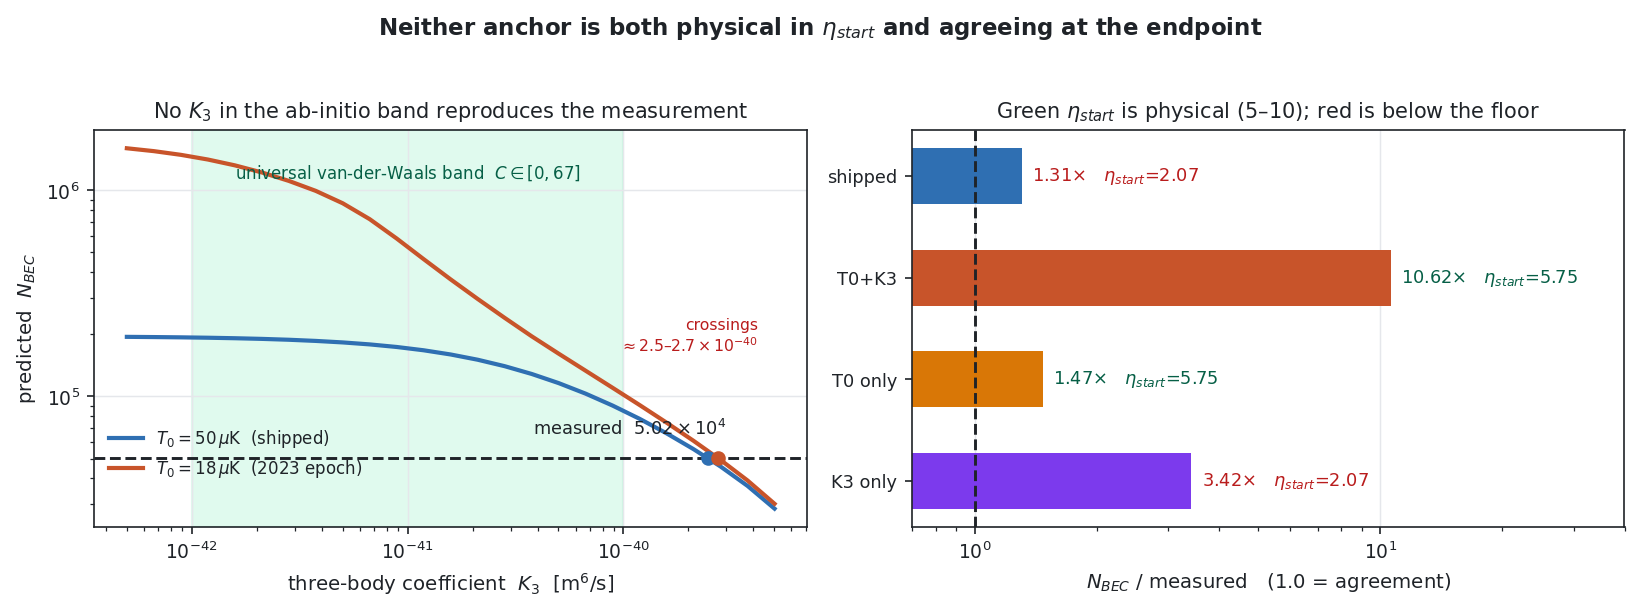
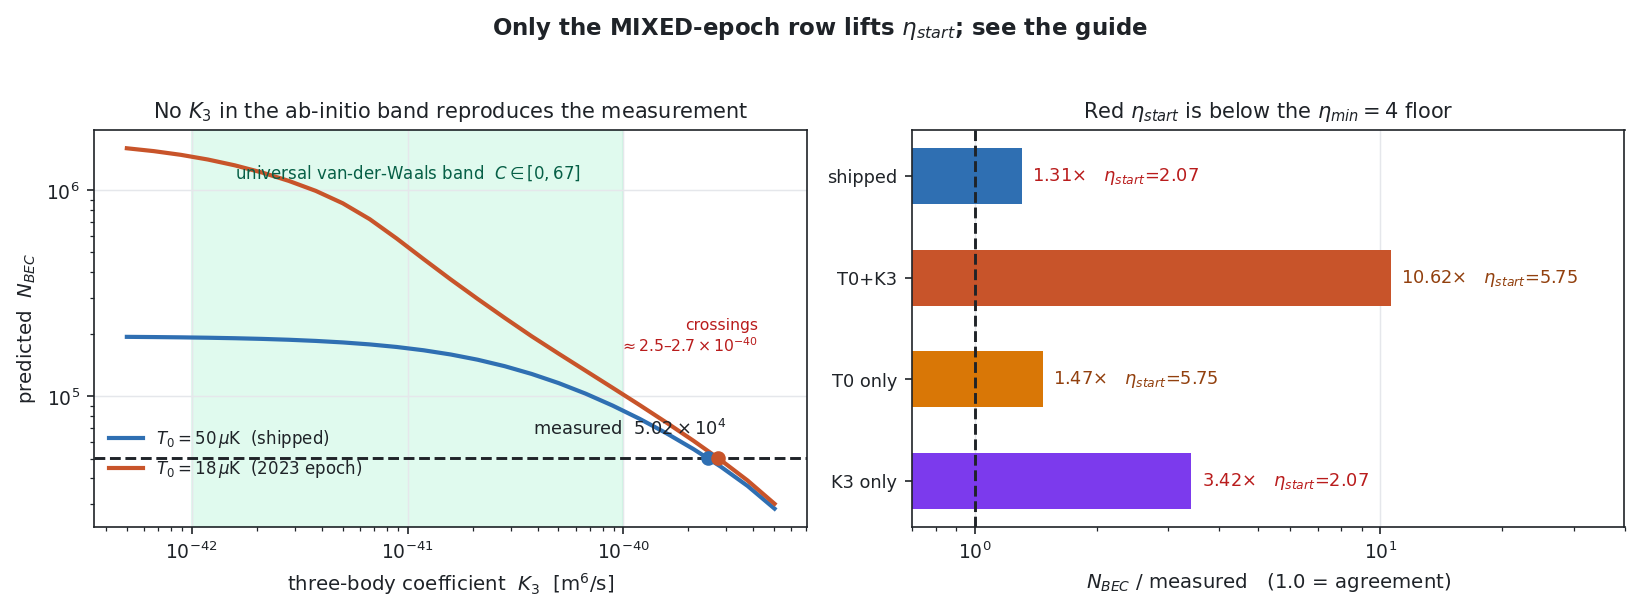
docs(evap): re-anchoring T0 does not lift eta_start — #333 and #348 were wrong
I traced the `T₀ = 18 µK` claim to its source one step too late. The provenance
is real (`eu_evaporation_calibration.md:112`, the 2023-11-06 notebook), but
taking it alone is the same epoch-mixing it was meant to correct, and the
yardstick I judged `η_start` against was not this apparatus's number.

Measured on 5ac0f81f, H-FORT only:

    7 W  -> 187.6 uK   vs 66 uK recorded for the 2023 epoch   (model 2.84x deep)
    10 W -> 271.9 uK   vs 350 uK recorded for 2022            (model 0.78x)

So `euv3_evap_trap()` is the 2022/thesis trap. Pairing it with the 2023 `T₀` is
epoch-mixing — what this calibration document's first rule forbids. Correct both
sides and the effect disappears:

    2022 trap + T0 = 50 uK (as shipped)      eta_start = 2.07
    2023 trap + T0 = 18 uK (depth / 2.84)    eta_start = 2.02
    MIXED: 2022 trap + 2023 T0               eta_start = 5.75

eta_start ~ 2 is what BOTH self-consistent epochs give. The 5.75 that #333
reported as "physical" is the artifact.

Nor is "real setups load at eta ~ 5-10" this apparatus's range: the 2023-07
notebook measured eta_start = 3.7 directly (7 W H-only, 66 uK depth, T = 17.8
uK) and called that regime "very hard". In the same configuration the model
gives 187.6/17.8 = 10.5 — the same 2.84x, which locates the discrepancy in the
trap depth and not the temperature. That is a single-beam hold while euv3 starts
from the crossed trap, so it is not a like-for-like target; it does rule out
[…]

diff --git a/docs/guides/figures/eu_evap_k3_band_exclusion_plot.py b/docs/guides/figures/eu_evap_k3_band_exclusion_plot.py
@@ -72,17 +72,19 @@ a.barh(y, ratios, color=cols, height=0.55)
 a.axvline(1.0, color=INK, lw=1.4, ls="--")
 for i, (rr, et) in enumerate(zip(ratios, etas)):
     a.text(rr * 1.06, i, f"{rr:.2f}×   $\\eta_{{start}}$={et:.2f}", va="center",
-           fontsize=8.5, color="#b91c1c" if et < 4 else "#065f46")
+           # amber, not green: eta_start > 4 here is reached only by pairing the
+           # 2023 T0 with the 2022 trap, which is epoch-mixing (see the guide).
+           fontsize=8.5, color="#b91c1c" if et < 4 else "#92400e")
 a.set_yticks(y)
 a.set_yticklabels(labels, fontsize=8.5)
 a.invert_yaxis()
 a.set_xscale("log")
 a.set_xlim(0.7, 40)
 a.set_xlabel("$N_{BEC}$ / measured   (1.0 = agreement)")
-a.set_title("Green $\\eta_{start}$ is physical (5–10); red is below the floor")
+a.set_title("Red $\\eta_{start}$ is below the $\\eta_{min}=4$ floor")
 a.grid(axis="y", visible=False)
 
-fig.suptitle("Neither anchor is both physical in $\\eta_{start}$ and agreeing at the endpoint",
+fig.suptitle("Only the MIXED-epoch row lifts $\\eta_{start}$; see the guide",
              y=1.03, fontsize=11, fontweight="bold")
 fig.tight_layout()
 fig.savefig(f"{D}/eu_evap_k3_band_exclusion.png", bbox_inches="tight", facecolor="white")

diff --git a/docs/guides/evaporation_model.md b/docs/guides/evaporation_model.md
@@ -121,20 +121,40 @@ On the researched euv3 defaults: `collision_ratio_R ≈ 6.4×10³` (good-to-bad 
 needed — not collisionally limited), `γ_el ≈ 12 kHz`, `runaway = true`. The trap is
 **collisionally excellent**. The marginal quantity is `eta_start`, and it is **worse than
 this document said until 2026-08-05**: the defaults give `eta_start = 2.07`, not the
-`≈ 4.5` claimed here and in three other places below. That is *under* the `eta_min = 4`
-floor, and real setups load at η ~ 5–10, so the loaded depth the model infers is
-unphysical by more than a factor of two. Measured by the very call this section tells you
-to make:
+`≈ 4.5` claimed here and in three other places below — it is *under* the `eta_min = 4`
+floor. Measured by the very call this section tells you to make:
 
 ```julia
 julia> evaporation_summary(run_euv3_evaporation()).eta_start
 2.0682
 ```
 
-Treat every absolute number downstream of the defaults as suspect until the loaded depth
-is re-anchored (`α`/power up, or `T₀` down — the ramp comes from a 2023 notebook whose
-loaded temperature is not the 2022 PRL's 50 µK). Ratio-type conclusions (optimized vs lab
-ramp) are the ones that survive.
+**Re-anchoring `T₀` does not fix it, and the first version of this correction said it did
+(2026-08-05, corrected 2026-08-19).** The euv3 ramp is the 2023-11-06 notebook's sequence
+and that notebook's loading temperature is `T₀ ≈ 18 µK`
+([`eu_evaporation_calibration.md`](eu_evaporation_calibration.md)) — but the *trap* here
+is the 2022/thesis one. Measured H-FORT-only depth: **187.6 µK @ 7 W** and 271.9 µK @ 10 W,
+against 66 µK @ 7 W recorded for the 2023 epoch and 350 µK @ 10 W for 2022. So the model's
+trap is **2.84× deeper than the epoch the ramp and `T₀` come from**, and swapping only `T₀`
+mixes epochs — the thing this calibration document's first rule forbids. Correct both sides
+and the effect vanishes:
+
+| self-consistent choice | `η_start` |
+|---|---|
+| 2022 trap + `T₀` = 50 µK (as shipped) | **2.07** |
+| 2023 trap + `T₀` = 18 µK (depth ÷2.84) | **2.02** |
+| *mixed*: 2022 trap + 2023 `T₀` | 5.75 |
+
+Nor is `η ~ 5–10` this apparatus's loading range: the 2023-07 notebook measured
+`η_start` = **3.7** directly (7 W H-only, 66 µK depth, T = 17.8 µK) and called that regime
+"very hard". In that same configuration the model gives 187.6/17.8 = **10.5**, the same
+2.84×, which locates the discrepancy in the trap depth rather than the temperature. (That
+is a single-beam hold and euv3 starts from the crossed trap, so it is not a like-for-like
+target — but it does rule out 5–10 as the yardstick.)
+
+Treat every absolute number downstream of the defaults as suspect. Ratio-type conclusions
+(optimized vs lab ramp) are the ones that survive. The epoch worth optimizing against is
+the 2025 generation, whose ramp is not in this tree.
 
 Optimize the ramp for max `N_BEC`. Three optimizers, increasing in reach:
 
@@ -171,10 +191,11 @@ evaporation works — across `K₃` ×0.5–1, `α` ×1.0–1.15, `τ_bg` 8–30
 
 - **Loaded-depth floor.** Evaporation can only start if the loaded `η_start = U/(k_BT₀)`
   exceeds `eta_min ≈ 4`. The defaults give `η_start = 2.07` — **already past the cliff**,
-  not "marginal at ≈ 4.5" as this bullet claimed. Real setups load at η ~ 5–10, so the
-  inferred loaded depth is too shallow by >2×, and no adverse `α` shift is needed to break
-  it. Check `evaporation_summary(...).eta_start` before trusting any optimization; that
-  advice was already here, and running it is what found this.
+  not "marginal at ≈ 4.5" as this bullet claimed, and no adverse `α` shift is needed to
+  break it. Both self-consistent epoch choices land at ≈ 2 (see above); re-anchoring `T₀`
+  alone does not lift it, it only mixes epochs. Check
+  `evaporation_summary(...).eta_start` before trusting any optimization; that advice was
+  already here, and running it is what found this.
 - **3-body cliff.** The aggressive ramp reaches high density fast; if `K₃` is ~2× the
   fit, it over-loses and may miss BEC while the gentle lab ramp still reaches it.
 - **No `K₃` in the ab-initio band reproduces the measured endpoint.** Reaching the
